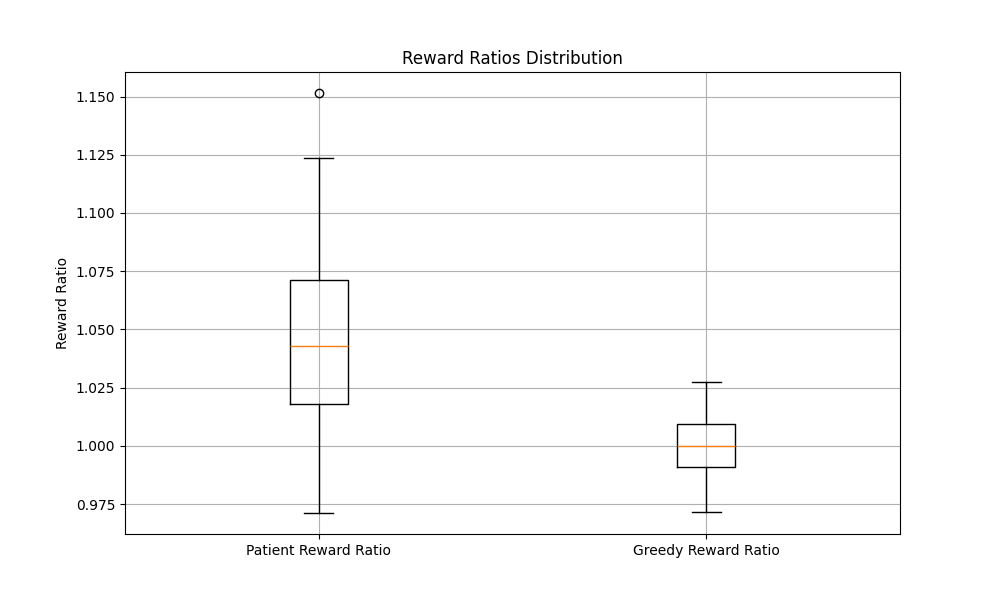
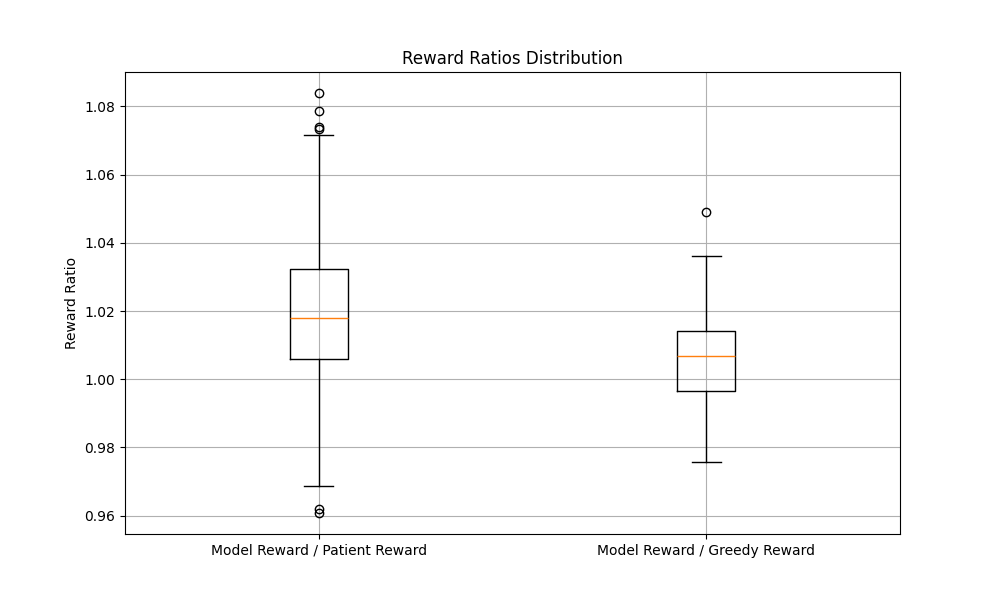
save

diff --git a/train.py b/train.py
@@ -7,10 +7,11 @@ import gymnasium as gym
 from tqdm import tqdm
 from baselines import get_greedy_percentage, get_periodic_percentage, get_patient_percentage
 import json
+from torch.optim.lr_scheduler import StepLR
 
 class REINFORCE:
     def __init__(self, device="cpu", model=None):
-        self.learning_rate = 1e-5
+        self.learning_rate = 1e-4
         self.gamma = 1
         
         if not model:
@@ -23,6 +24,7 @@ class REINFORCE:
             self.model = model
         print("Number of parameters: ", sum(p.numel() for p in self.model.parameters()))
         self.optimizer = torch.optim.Adam(self.model.parameters(), lr=self.learning_rate)
+        self.scheduler = StepLR(self.optimizer, step_size=16, gamma=0.75)
         self.device = torch.device(device)
 
         self.model.to(self.device)
@@ -116,6 +118,7 @@ class REINFORCE:
 
         torch.nn.utils.clip_grad_norm_(self.model.parameters(), 1.0)
         self.optimizer.step()
+        self.scheduler.step()
         
         self.probs = []
 
@@ -123,7 +126,7 @@ class REINFORCE:
 # MPS has some issues when trying to compute the loss
 
 # training constants
-episodes_per_env = 64
+episodes_per_env = 256
 eval_lookback = 8
 eval_period = 8
 batch_size = 8
@@ -134,19 +137,9 @@ agent = REINFORCE(
 
 envs = [
     PairedKidneyDonationEnv(
-        n_agents=100,
-        n_timesteps=36,
-        criticality_rate=18
-    ),
-    PairedKidneyDonationEnv(
-        n_agents=250,
-        n_timesteps=36,
-        criticality_rate=18
-    ),
-    PairedKidneyDonationEnv(
-        n_agents=500,
-        n_timesteps=36,
-        criticality_rate=18
+        n_agents=1000,
+        n_timesteps=180,
+        criticality_rate=90
     )
 ]
 
@@ -195,7 +188,7 @@ for env in envs:
     eval_model_rewards = []
     eval_patient_rewards = []
  
-    for i in tqdm(range(episodes_per_env)):
+    for i in tqdm(range(64)):
         obs, info = env.reset()
         done = False
 

diff --git a/model_visualize.py b/model_visualize.py
@@ -14,7 +14,7 @@ with open("model_results.json") as f:
 
     # Plot the reward ratios
     plt.figure(figsize=(10, 6))
-    plt.boxplot([patient_ratio, greedy_ratio], labels=["Patient Reward Ratio", "Greedy Reward Ratio"])
+    plt.boxplot([patient_ratio, greedy_ratio], labels=["Model Reward / Patient Reward", "Model Reward / Greedy Reward"])
     plt.ylabel("Reward Ratio")
     plt.title("Reward Ratios Distribution")
     plt.grid(True)
